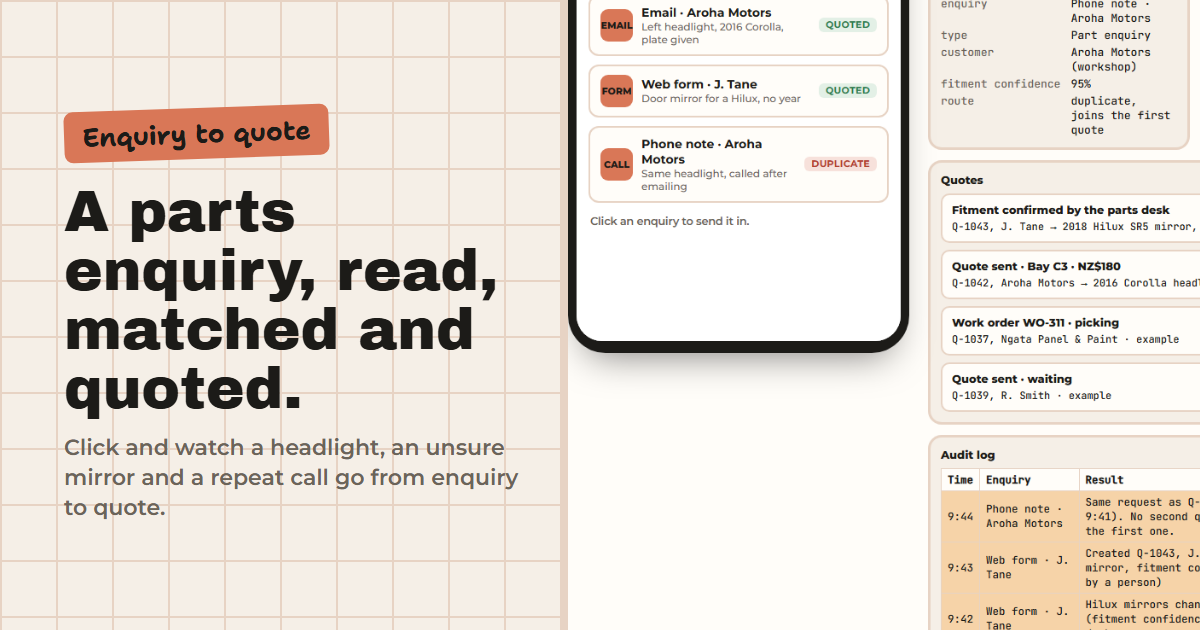
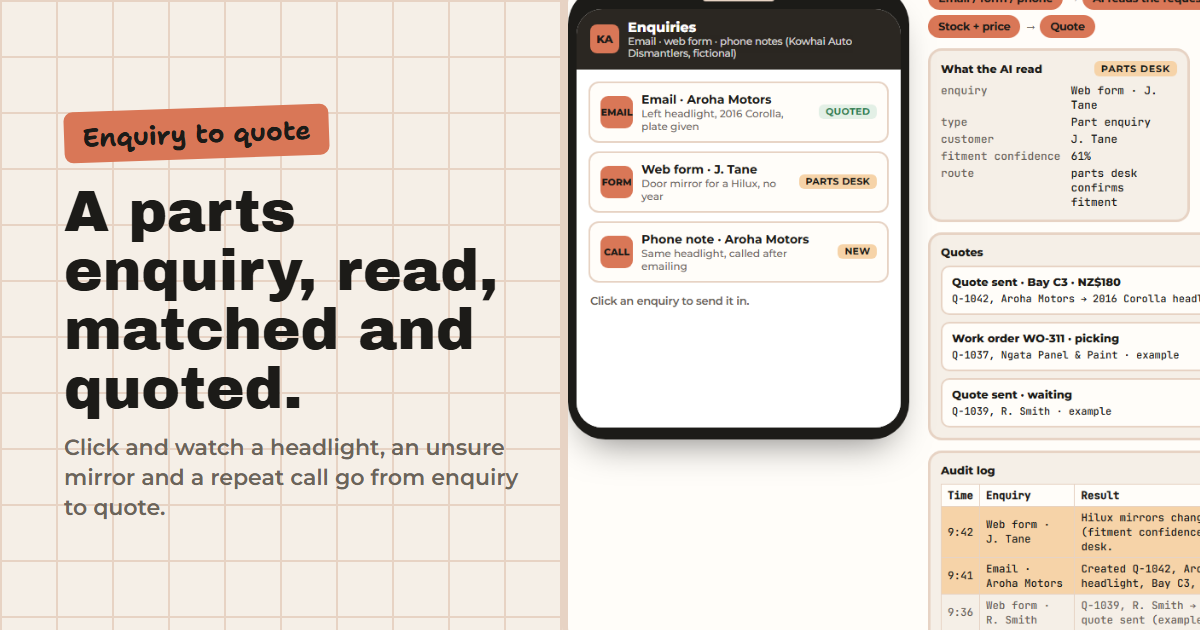
Demo nz-auto-parts

Changed region(s): [[0.4625, 0.0, 1.0, 1.0]]

diff --git a/nz-auto-parts/index.html b/nz-auto-parts/index.html
@@ -343,6 +343,17 @@ const CFG = {"limite":85,"papeis":{"auto":"a","revisao":"b","duplicado":"c"},"do
   const arquivados = {};
   const ritmo = () => (modoExemplo ? { bastidor: 1100 } : { bastidor: 650 });
   const esp = (ms) => new Promise((r) => setTimeout(r, ms));
+  // Ritmo de leitura do exemplo (29/10/2026, 2ª queixa de "rápido demais"): cada passo espera
+  // 1 s pra achar onde mudou + 4 palavras/s das palavras NOVAS desde a última pausa. É a mesma
+  // régua do scripts/medir-ritmo-demo.mjs, que reprova o exemplo que não der tempo de ler.
+  const pal = (t) => t.split(/\s+/).filter((w) => /[\p{L}\p{N}]/u.test(w));
+  let marco = '';
+  function leitura() {
+    const agora = document.body.innerText; const c = new Map(); let n = 0;
+    for (const w of pal(marco)) c.set(w, (c.get(w) || 0) + 1);
+    for (const w of pal(agora)) { const q = c.get(w) || 0; if (q > 0) c.set(w, q - 1); else n++; }
+    marco = agora; return n ? 1000 + (n / 4) * 1000 + 250 : 0;
+  }
 
   const timers = new Map();
   function holofote(sel, ms) {
@@ -396,7 +407,7 @@ const CFG = {"limite":85,"papeis":{"auto":"a","revisao":"b","duplicado":"c"},"do
 
   // ---------- a corrida ----------
   async function passosSeq(g, fns) {
-    for (const f of fns) { await esp(ritmo().bastidor); if (g !== geracao) return false; if ((await f()) === 'parar') return false; }
+    for (const f of fns) { await esp(modoExemplo ? Math.max(400, leitura()) : ritmo().bastidor); if (g !== geracao) return false; if ((await f()) === 'parar') return false; }
     return true;
   }
   function igualA(k) { return DOCS[k].igualA || arquivados[k] || null; }
@@ -488,18 +499,18 @@ const CFG = {"limite":85,"papeis":{"auto":"a","revisao":"b","duplicado":"c"},"do
   const espera = (cond, ms) => new Promise((ok) => { const t0 = Date.now(); (function v() { if (cond() || Date.now() - t0 > ms) ok(); else setTimeout(v, 150); })(); });
   $('#exemplo').addEventListener('click', async () => {
     $('#exemplo').classList.remove('chamar');
-    const minha = ++rodada; iniciar(); modoExemplo = true;
+    const minha = ++rodada; iniciar(); modoExemplo = true; marco = document.body.innerText;
     const vivo = () => minha === rodada;
     const livre = () => !ocupado || !vivo();
     await esp(1800); if (!vivo()) return;
-    rodar(PAPEL.auto); await esp(300); await espera(livre, 20000); if (!vivo()) return;
-    await esp(2200); if (!vivo()) return;
-    rodar(PAPEL.revisao); await esp(300); await espera(() => $('#fila [data-r="ok"]') || !vivo(), 15000); if (!vivo()) return;
-    await esp(2800); if (!vivo()) return;
+    rodar(PAPEL.auto); await esp(300); await espera(livre, 90000); if (!vivo()) return;
+    await esp(Math.max(1500, leitura())); if (!vivo()) return;
+    rodar(PAPEL.revisao); await esp(300); await espera(() => $('#fila [data-r="ok"]') || !vivo(), 90000); if (!vivo()) return;
+    await esp(Math.max(2000, leitura())); if (!vivo()) return;
     const ok = $('#fila [data-r="ok"]'); if (ok) ok.click();
-    await esp(300); await espera(livre, 20000); if (!vivo()) return;
-    await esp(2200); if (!vivo()) return;
-    rodar(PAPEL.duplicado); await esp(300); await espera(livre, 15000);
+    await esp(300); await espera(livre, 90000); if (!vivo()) return;
+    await esp(Math.max(1500, leitura())); if (!vivo()) return;
+    rodar(PAPEL.duplicado); await esp(300); await espera(livre, 90000);
     if (vivo()) modoExemplo = false;
   });
 })();
